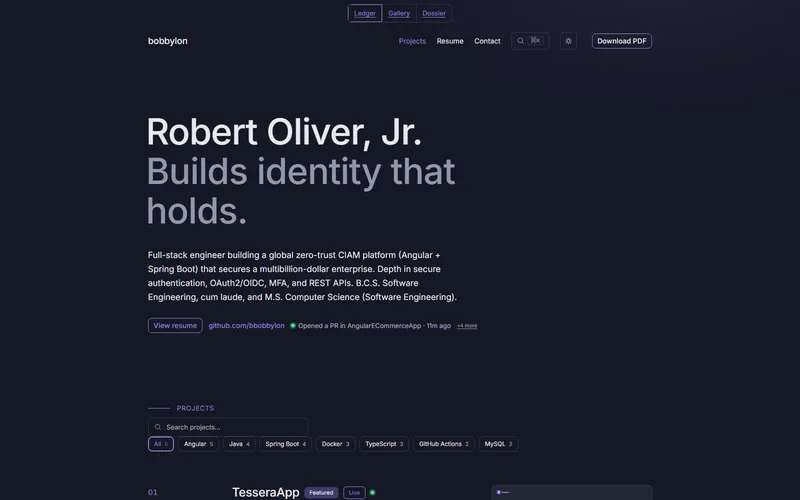
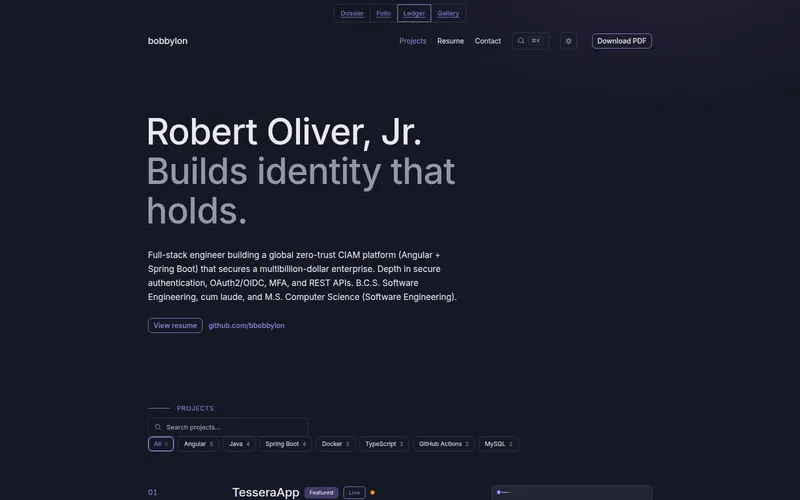
Fix three stale project-catalogue entries and their derived artifacts
InMemoryProjectRepository had the same class of bug the Luv2Shop
Angular-version fix caught: a linked project's own content grew and the
catalogue's copy of it never followed.

- Dev Learning Hub (OOPFundamentals): "515 visualizers, 34 tracks" -> 521/35,
  verified against that repo's own app.progress.total-topics default and
  tracks-data.js track count, not just its README prose.
- Angular Concepts (AngularDevelopment): "100 concepts, 100 lessons, five
  tracks, 200+ exercises, 253 interview questions" -> 103 lessons across six
  tracks backed by one 424-question practice bank (counted directly from
  curriculum.ts and practice-data.ts), rewritten to reflect the real
  single-bank shape rather than two invented pools.
- Dev Hub: "24 interactive learning pages" -> 31, verified against that
  repo's own SRS.md and pages.ts. Left the case study's "Recreated the 24
  prototype pages" alone since it narrates the original one-time port, not
  the current live total.

Regenerated derived artifacts while investigating this class of bug further:
- resume.pdf: fresh re-render (unaffected by the fixes above; confirmed a
  real re-render via a new hash at the same size).
- WebsiteHub's own websitehub-1/-2 shots and og.png: last captured
  2026-09-11, still showing the old three-way layout switcher from before
  the 2026-09-13 Folio launch. Regenerated from the local dev server, forcing
  dark mode via CDP so they match the still-dark websitehub-3.
[…]

diff --git a/backend/src/main/java/com/bobbylon/websitehub/repository/InMemoryProjectRepository.java b/backend/src/main/java/com/bobbylon/websitehub/repository/InMemoryProjectRepository.java
@@ -165,11 +165,11 @@ public class InMemoryProjectRepository implements ProjectRepository {
             new Project(
                     "dev-hub",
                     "Dev Hub",
-                    "24 interactive learning pages with real, persisted progress.",
-                    "A learn-to-code app of 24 interactive page archetypes — lessons, quizzes, "
+                    "31 interactive learning pages with real, persisted progress.",
+                    "A learn-to-code app of 31 interactive page archetypes — lessons, quizzes, "
                             + "flashcards, visualizers and labs — with progress and spaced repetition "
                             + "that persist between visits.",
-                    "A learn-to-code app built from a Claude Design handoff: 24 interactive page "
+                    "A learn-to-code app built from a Claude Design handoff: 31 interactive page "
                             + "archetypes across Learn, Practice, Reference and Meta — a CLI lesson, "
                             + "Git branching and rebase visualizers, Big-O charts, an algorithm "
                             + "visualizer, quiz mode, flashcards, a terminal-simulator mission, a regex "
@@ -184,7 +184,7 @@ public class InMemoryProjectRepository implements ProjectRepository {
                     List.of("React 19", "TypeScript", "Vite", "React Router", "Playwright"),
                     List.of("shots/dev-hub-1.webp", "shots/dev-hub-2.webp", "shots/dev-hub-3.webp"),
                     List.of(
-                            new Highlight("24 page archetypes",
+                            new Highlight("31 page archetypes",
                                     "Lessons, deep-dives, storyboards, quizzes, flashcards, visualizers, "
                                             + "labs and a progress dashboard, all on one design system and "
                                             + "filterable from a single gallery."),
@@ -218,12 +218,13 @@ public class InMemoryProjectRepository implements ProjectRepository {
                     "angular-concepts",
                     "Angular Concepts",
                     "Angular curriculum, zero to expert",
-                    "A hands-on Angular 21 curriculum — 100 concepts, 200+ exercises and interview prep "
-                            + "from zero to expert.",
+                    "A hands-on Angular 21 curriculum — 103 lessons, a 424-question practice bank and "
+                            + "interview prep from zero to expert.",
                     "A complete, hands-on Angular 21 curriculum built with standalone components and "
-                            + "signals: 100 concepts and 100 live lessons across five difficulty tracks, "
-                            + "200+ practice exercises, 253 interview questions and project walkthroughs — "
-                            + "built while learning the framework and still live as a static site.",
+                            + "signals: 103 lessons across six difficulty tracks, a 424-question practice "
+                            + "bank feeding timed mock exams and spaced-repetition review, and project "
+                            + "walkthroughs — built while learning the framework and still live as a "
+                            + "static site.",
                     "https://bbobbylon.github.io/AngularDevelopment/",
                     "https://github.com/bbobbylon/AngularDevelopment",
                     ProjectStatus.LIVE,
@@ -231,11 +232,11 @@ public class InMemoryProjectRepository implements ProjectRepository {
                     List.of("shots/angular-concepts-1.webp"),
                     List.of(
                             new Highlight("Zero to expert",
-                                    "100 concepts and 100 live lessons across five difficulty tracks, from "
-                                            + "Foundations and TypeScript through Expert Angular."),
+                                    "103 live lessons span six difficulty tracks, from Foundations and "
+                                            + "TypeScript through Expert Angular and hands-on Projects."),
                             new Highlight("Practice, not just reading",
-                                    "200+ practice exercises, 253 interview questions with flashcard mode, "
-                                            + "and timeboxed coding-task simulations."),
+                                    "A 424-question practice bank powers timed mock exams, spaced-repetition "
+                                            + "review and flashcards, plus 17 hands-on coding tasks."),
                             new Highlight("Angular 21, standalone, signals",
                                     "Built with the current Angular standalone-component and signals APIs, "
                                             + "shipped as a static site on GitHub Pages.")
@@ -247,11 +248,11 @@ public class InMemoryProjectRepository implements ProjectRepository {
                             "Learning a framework thoroughly needed more than reading docs — a path from "
                                     + "zero through advanced patterns, plus enough practice and interview "
                                     + "prep to make the concepts stick.",
-                            "100 concepts and 100 live lessons span five difficulty tracks from "
-                                    + "Foundations and TypeScript through Expert Angular, backed by 200+ "
-                                    + "practice exercises, 253 interview questions with flashcard mode, and "
-                                    + "timeboxed coding-task simulations — all built with Angular 21's "
-                                    + "current standalone-component and signals APIs.",
+                            "103 live lessons span six difficulty tracks from Foundations and TypeScript "
+                                    + "through Expert Angular and hands-on Projects, backed by a "
+                                    + "424-question practice bank, timed mock exams, spaced-repetition "
+                                    + "review and flashcards, and 17 timeboxed coding tasks — all built "
+                                    + "with Angular 21's current standalone-component and signals APIs.",
                             "Live as a static site on GitHub Pages, built while learning the framework "
                                     + "itself."
                     )
@@ -259,10 +260,10 @@ public class InMemoryProjectRepository implements ProjectRepository {
             new Project(
                     "dev-learning-hub",
                     "Dev Learning Hub",
-                    "515 visualizers, 34 learning tracks",
+                    "521 visualizers, 35 learning tracks",
                     "Interactive visualizers for Java, Spring Boot, Angular, TypeScript, Python and more, "
                             + "with per-account progress tracking and streaks.",
-                    "An interactive learning hub of 515 visualizers across 34 tracks — Java and OOP, "
+                    "An interactive learning hub of 521 visualizers across 35 tracks — Java and OOP, "
                             + "Spring Boot, Angular, TypeScript, Python, data structures and algorithms and "
                             + "more — organized by difficulty from beginner to expert. Progress, streaks "
                             + "and completion save per account or anonymously, with an admin dashboard for "
@@ -273,7 +274,7 @@ public class InMemoryProjectRepository implements ProjectRepository {
                     List.of("Java", "Spring Boot", "Angular", "TypeScript", "Python"),
                     List.of("shots/dev-learning-hub-1.webp"),
                     List.of(
-                            new Highlight("515 visualizers, 34 tracks",
+                            new Highlight("521 visualizers, 35 tracks",
                                     "Java and OOP, Spring Boot, Angular, TypeScript, Python, data "
                                             + "structures and algorithms and more, each broken into "
                                             + "beginner-to-expert topics."),
@@ -291,7 +292,7 @@ public class InMemoryProjectRepository implements ProjectRepository {
                             "A broad set of computer-science and full-stack topics needed one place to "
                                     + "learn them interactively, organized by difficulty, without forcing an "
                                     + "account just to start.",
-                            "515 interactive visualizers span 34 tracks — Java and OOP, Spring Boot, "
+                            "521 interactive visualizers span 35 tracks — Java and OOP, Spring Boot, "
                                     + "Angular, TypeScript, Python, data structures and algorithms and more — "
                                     + "from beginner to expert; progress, streaks and completion save per "
                                     + "account or anonymously with local-only saving.",

diff --git a/docs/BACKLOG.md b/docs/BACKLOG.md
@@ -179,6 +179,113 @@ Nothing open right now — see Done below for the two items that closed 2026-09-
 
 ## Done
 
+- 2026-09-18 — Three more catalogue entries had gone stale the same way the
+  Luv2Shop Angular-version bug did — a linked project's own content grew and
+  `InMemoryProjectRepository`'s copy of it never followed. Found by reading each
+  linked repo's own source of truth (its README's stated counts, cross-checked
+  against the actual data file backing that count) rather than trusting the
+  README prose alone:
+  1. **Dev Learning Hub** (`OOPFundamentals`) said "515 visualizers, 34 learning
+     tracks" everywhere it appears (tagline, description, longDescription, a
+     highlight, the case study). The app's own backend now defaults
+     `app.progress.total-topics` to **521**, and `frontend/tracks-data.js` has
+     **35** track ids — both counted independently, not just quoted from that
+     repo's README. Every occurrence updated to 521/35.
+  2. **Angular Concepts** (`AngularDevelopment`) was the largest gap: the entry
+     said "100 concepts and 100 live lessons across five difficulty tracks,
+     200+ practice exercises, 253 interview questions." The repo's own
+     `curriculum.ts` has **103** lesson entries across **six** `level` values
+     (12 foundations + 13 typescript + 24 beginner + 29 intermediate + 22
+     expert + 3 projects — a track the old five-track copy never mentioned),
+     and `practice-data.ts` has **424** question entries, not two separate
+     pools of ~200 and 253 — it's one bank feeding practice, timed mock exams,
+     spaced-repetition review and flashcards. Rewrote every occurrence (tagline,
+     description, longDescription, both highlights, the case study) to the
+     real numbers and the real single-bank shape, not just a find-and-replace
+     of the old figures.
+  3. **Dev Hub** said "24 interactive learning pages" / "24 page archetypes" in
+     four places. Its own `docs/SRS.md` states "31 lesson/tool pages" today,
+     confirmed independently by counting `app/src/data/pages.ts`'s `slug:`
+     entries (32 lines match `slug:`, one of which is the `PageEntry` interface
+     field, not a page — 31 real entries). Updated the present-tense claims
+     (tagline, description, longDescription, the "N page archetypes"
+     highlight) to 31; deliberately left the case study's "Recreated the 24
+     prototype pages" untouched, since that sentence narrates the original
+     one-time port from the Claude Design handoff, not the current live
+     total — the app has since grown 7 more pages as ordinary feature work,
+     which were never part of that historical prototype set, so rewriting that
+     number to 31 would have made a true historical claim false. (Also noted
+     but deliberately not touched: Dev Hub's codebase has since grown an
+     *optional* Spring Boot sync backend — `server/`, see its own
+     `docs/ARCHITECTURE.md` §11 — but it's "not deployed anywhere; the GitHub
+     Pages build has none configured," so the live site a visitor actually
+     reaches still matches this catalogue's "no server, no account" claim
+     exactly. Nothing to fix there.)
+
+  Verified each fix reached the actual served page, not just the Java source:
+  restarted the local backend after each edit (a long-running `spring-boot:run`
+  does not pick up a source change without a restart — confirmed the hard way
+  when the first post-edit build still prerendered the old 515/34 figures),
+  rebuilt with `ng build --base-href /Resume/`, and grepped the built
+  `projects/<id>/index.html` for both the old and new numbers to confirm the
+  stale ones were gone and the corrected ones present. 13 backend + 123
+  frontend tests green throughout (no test pinned the old numbers).
+
+  Also regenerated derived artifacts while investigating whether the
+  skip-link/PDF bug's lesson ("a generated artifact can go stale even when the
+  source is correct") applied elsewhere:
+  - **`resume.pdf`** — regenerated from the corrected build; unaffected by the
+    catalogue fixes above (the resume page doesn't reference project data) but
+    confirmed fresh (new hash, same ~237 KB size — the documented signature of
+    a genuine re-render, not a stale copy) since nothing had regenerated it
+    since 2026-09-16.
+  - **WebsiteHub's own screenshots and `og.png`** — these had gone stale in
+    exactly the pattern this session was looking for. Both were last captured
+    2026-09-11, and show the **old three-way switcher** (Ledger/Gallery/
+    Dossier) — the 2026-09-13 Folio launch and switcher reorder
+    (Dossier/Folio/Ledger/Gallery) was never reflected in either image, so the
+    live site's own project card and every social-preview unfurl of the site's
+    link were showing a wrong, out-of-date nav. Regenerated `websitehub-1`/`-2`
+    (landing + resume pages) and `og.png` from the local dev server — the
+    established capture path for WebsiteHub's own shots (`SELF_URL`, not its
+    live GitHub Pages URL) — using a one-off script that forces
+    `prefers-color-scheme: dark` via CDP `emulateMediaFeatures`, since this
+    sandbox's headless Chrome defaults to light and `npm run shots`' plain
+    `--screenshot` CLI flag can't force a color scheme; without that the new
+    shots would have mismatched the still-dark `websitehub-3` in the same
+    on-page gallery. **Deliberately did not regenerate `websitehub-3`**
+    (`/projects/tesseraapp`): this sandbox's egress policy blocks
+    `tesseraapp.dev`, `api.github.com` and GitHub Pages entirely (confirmed via
+    the proxy status endpoint — organization policy denials, not a real
+    outage), so a capture taken here would have baked in a false "Not
+    reachable right now" `LiveStatus` badge on a project that is actually live
+    — replacing one stale artifact with a differently-wrong one. Left that file
+    at its last-known-good, real-network capture. The regenerated landing shot
+    similarly won't show the live `GithubActivity` strip (api.github.com is
+    blocked here) — that degrades to the same "renders nothing" state the
+    component already handles by design when the real GitHub API is
+    unreachable, not a new defect. **Follow-up for whoever next has a
+    network-connected machine:** re-run `npm run shots -- --only websitehub`
+    for full fidelity (the GitHub activity line + an accurate `websitehub-3`
+    reachability badge); the structural fix (correct switcher) here is real and
+    complete regardless.
+  - **`npm run a11y`** (34/34, both themes, 17 states) and the full **123
+    frontend + 13 backend** test suites re-run clean against the final,
+    corrected build.
+  - **`npm run linkcheck`** could not be run for real this session: this
+    sandbox's egress policy blocks `bbobbylon.github.io`, `bobs-resume
+    .onrender.com` and `api.github.com` outright (confirmed via
+    `curl -sS $HTTPS_PROXY/__agentproxy/status` — policy denials, not
+    timeouts), so neither the deployed catalogue's `data/*.json` nor any of
+    the individual project/repo/social links it checks were reachable from
+    here. Not run, not faked — this needs a network-connected environment,
+    not a repo fix.
+  - `sitemap.xml` and `robots.txt` were checked and are fine: the sitemap is
+    generated fresh from the prerendered routes on every build (10 URLs,
+    today's date, the placeholder origin the deploy workflow substitutes at
+    publish time) — there's no way for it to go stale between builds by
+    design, so there was nothing to fix.
+
 - 2026-09-16 — Confirmed **Luv2Shop's real repo** and fixed three stale/broken
   references. A separate `AngularECommerceAppv2` repo turned out to be a single-commit,
   2026-08-31 snapshot ("New ECommerce Udemy App", 36 Java + 35 TS files) — the actual
